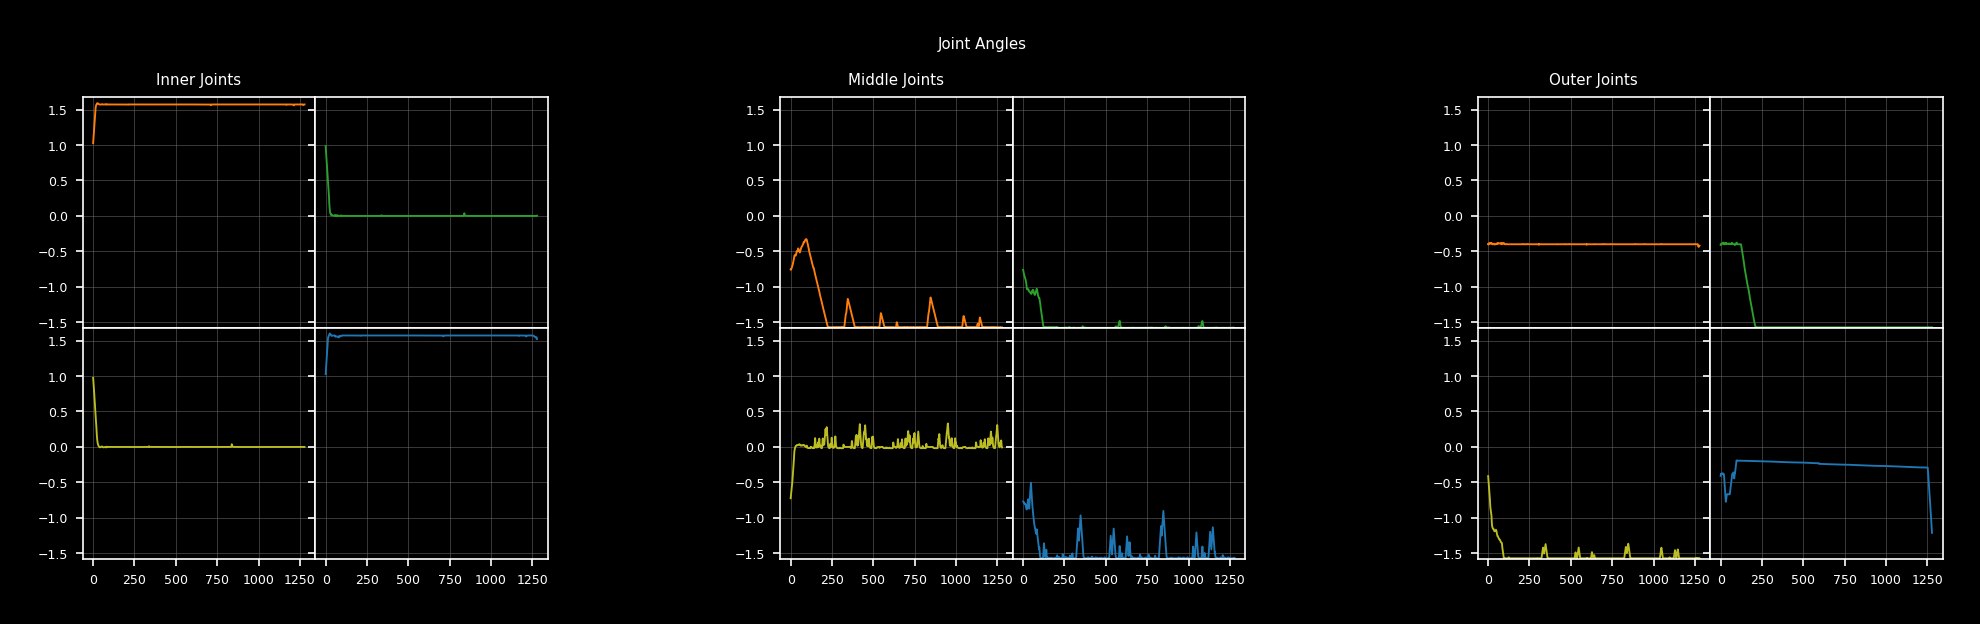
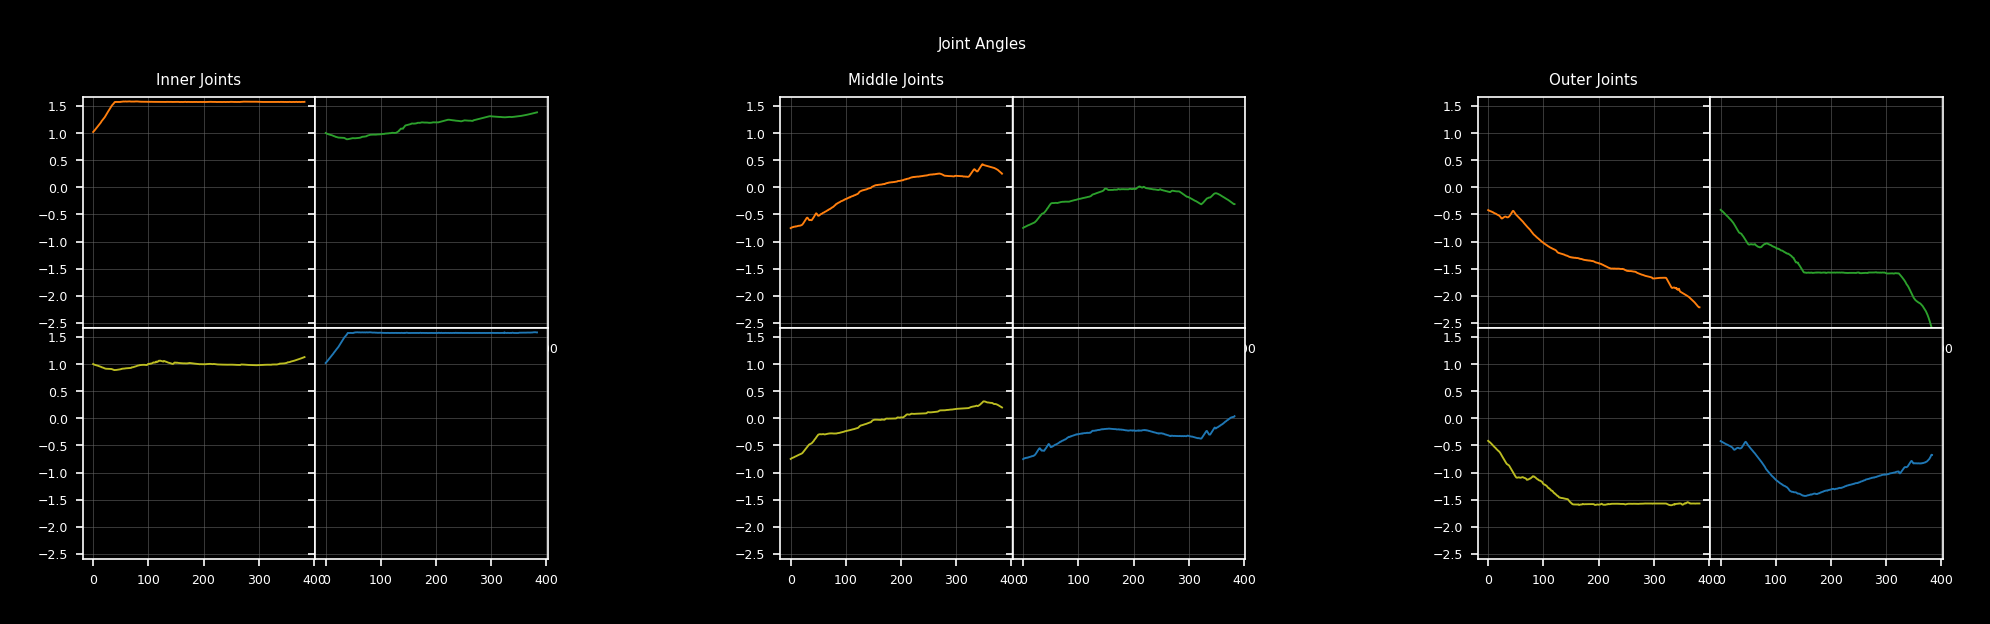
testing alt version, velocity control

diff --git a/spider_bot/environments.py b/spider_bot/environments.py
@@ -99,19 +99,20 @@ class SpiderBotSimulator(Env):
         # use control outputs to move robot
         #for i, control in zip(self.spider.joints_flat, controls):
         #ic(self.spider.joint_limits)
-        for i, control in enumerate(controls):
-            control = np.clip(control, -1, 1)
-            target_position = self.spider.joint_limits[self.joint_pairs[i][0]]['center'] + 0.5 * control * self.spider.joint_limits[self.joint_pairs[i][0]]['range']
-            self.spider.set_joint_position(self.joint_pairs[i][0], target_position)
-            self.spider.set_joint_position(self.joint_pairs[i][1], target_position)
+        # for i, control in enumerate(controls):
+        #     control = np.clip(control, -1, 1)
+        #     target_position = self.spider.joint_limits[self.joint_pairs[i][0]]['center'] + 0.5 * control * self.spider.joint_limits[self.joint_pairs[i][0]]['range']
+        #     self.spider.set_joint_position(self.joint_pairs[i][0], target_position)
+        #     self.spider.set_joint_position(self.joint_pairs[i][1], target_position)
             #ic(self.joint_pairs[i][0], target_position)
             #ic(self.joint_pairs[i][1], target_position)
 
         #controls = self.filter_controls(controls.copy())
-            
-        self.spider.set_joint_velocities(self.spider.outer_joints, controls[:4])
-        self.spider.set_joint_velocities(self.spider.middle_joints, controls[4:8])
-        self.spider.set_joint_velocities(self.spider.inner_joints, controls[8:])
+        for i, pair in enumerate(self.joint_pairs):
+            self.spider.set_joint_velocities(pair, [controls[i], controls[i]])
+        # self.spider.set_joint_velocities(self.spider.outer_joints, controls[i])
+        # self.spider.set_joint_velocities(self.spider.middle_joints, controls[i])
+        # self.spider.set_joint_velocities(self.spider.inner_joints, controls[i])
         
         # update state vars
         self.last_position = self.curr_position
